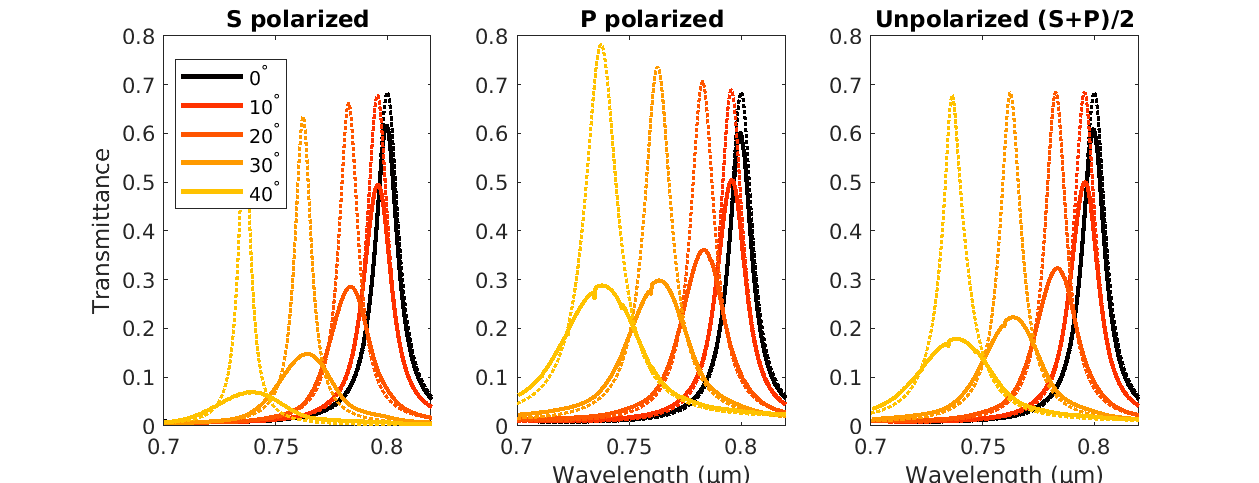
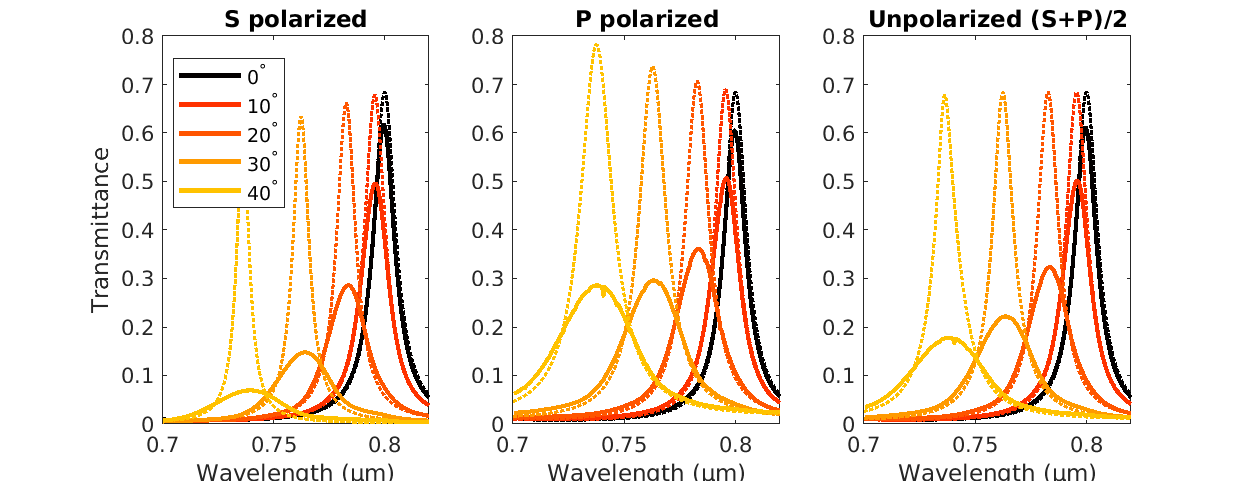
updated image polarization

diff --git a/examples/example_polarisation.m b/examples/example_polarisation.m
@@ -37,7 +37,7 @@ filter=tinyfilter(nair,nstack,nsub,thickness,width);
 %% Choose simulation options
 
 
-accuracy = 7;
+accuracy = 8;
 wavelengths=linspace(0.7,0.85,300); % µm
 angles = [0 10 20 30 40]; 
 
@@ -103,6 +103,7 @@ xlimits=[0.7 0.82]
 subplot(131)
 legend([htiny],'0^\circ','10^\circ','20^\circ','30^\circ','40^\circ','location','best')
 box on
+xlabel('Wavelength (µm)')
 ylabel('Transmittance')
 ylim(ylimits)
 xlim(xlimits)
